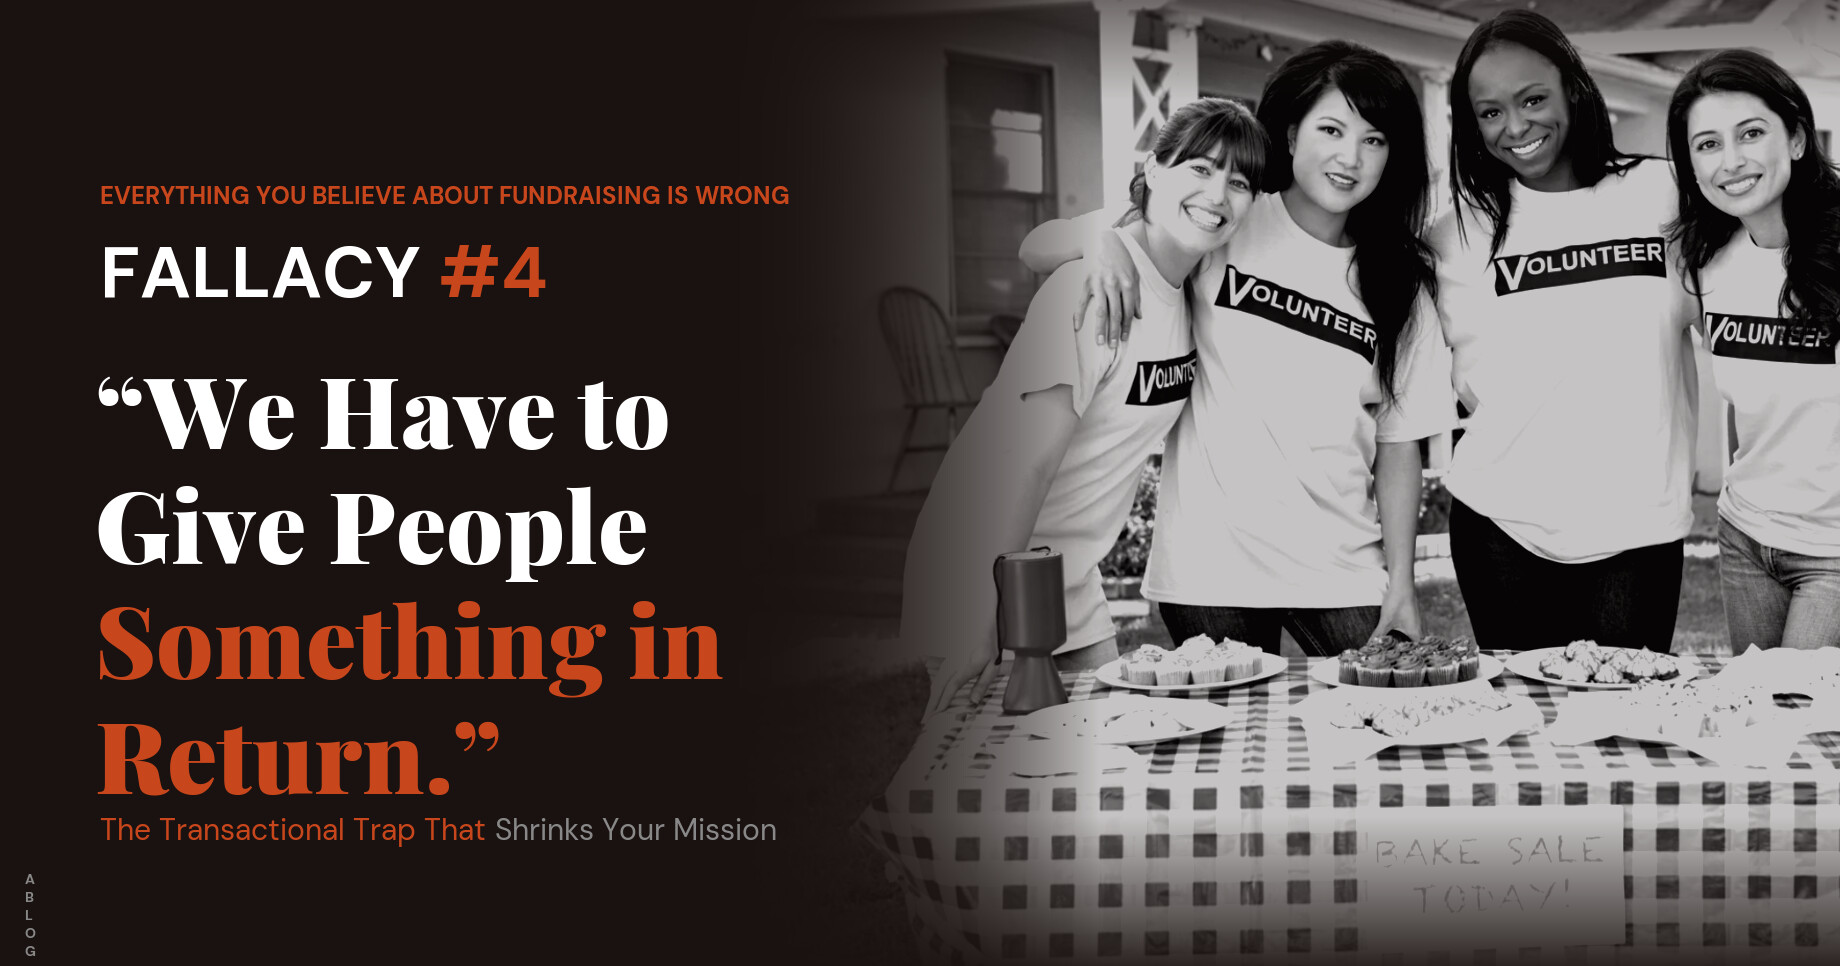
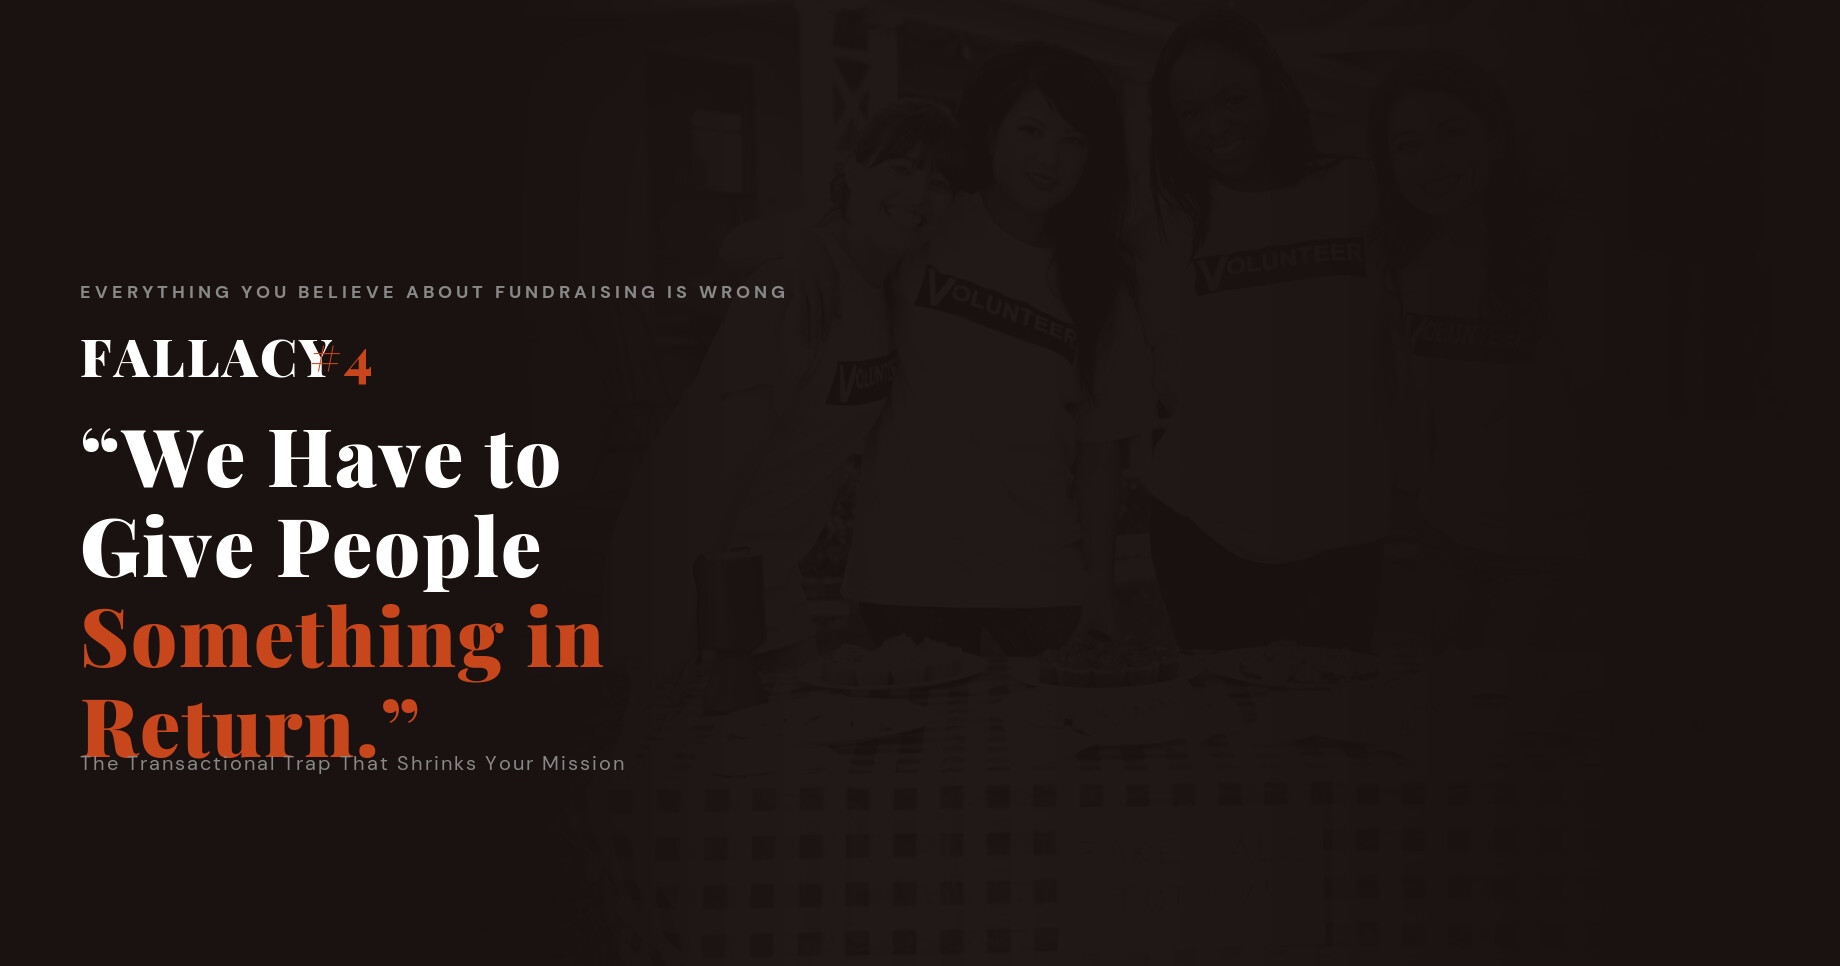
Update Fallacy #4 opening paragraphs, darken header image, update belief #10 text in intro post

diff --git a/Website/blog/everything-you-believe-about-fundraising-is-wrong.html b/Website/blog/everything-you-believe-about-fundraising-is-wrong.html
@@ -439,7 +439,7 @@
 
     <p>A few years ago, I walked into a small-town charity that was convinced it had hit its ceiling.</p>
 
-    <p>The board was exhausted. The volunteers were burnt out. And no wonder. The backbone of their fundraising program was a relentless calendar of bake sales, garage sales, and car washes. Every few weeks, another Saturday sacrificed to hauling tables, making change, and smiling through the grind. Everyone was working incredibly hard. The returns were enough to keep their doors open, but staff hadn't received a raise in years.</p>
+    <p>The board was exhausted. The volunteers were burnt out. And no wonder. The backbone of their fundraising program was a relentless calendar of bake sales, garage sales, and car washes. Every few weeks, another Saturday sacrificed to hauling tables and making change. Everyone was working incredibly hard. And, to be fair, often they were having a lot of fun. But, while the returns were enough to keep their doors open, staff hadn&rsquo;t received a raise in years, and no one thought a raise would be possible any time soon.</p>
 
     <p>The prevailing assumption was simple: <strong>we're a small charity in a small town. This is just what fundraising looks like. We've maxed out what's possible here.</strong></p>
 
@@ -459,7 +459,7 @@
 
     <p>So why do so many good organizations, doing genuinely important work, struggle to raise money? Why do passionate, intelligent board members and executive directors preside over anemic fundraising programs year after year?</p>
 
-    <p>Often, it's because they hold a set of deeply ingrained beliefs about fundraising that <em>feel</em> true, feel obvious, feel like common sense, are yet are so completely wrong, that they're very nearly the opposite of the truth. And these beliefs don't just limit results. They actively prevent organizations from doing the simple, often low-effort things that actually raise money.</p>
+    <p>Often, it&rsquo;s because they hold a set of deeply ingrained beliefs about fundraising that <em>feel</em> true, feel obvious, feel like common sense, are yet are very nearly the opposite of the truth. And these beliefs don&rsquo;t just limit results. They actively prevent organizations from doing the simple, often low-effort things that actually raise money.</p>
 
     <p>These beliefs are so common, so deeply held, and so rarely examined that most nonprofit leaders don't even recognize them as beliefs. They feel like facts. Like the way things are. Like the natural limits of what's possible.</p>
 
@@ -481,7 +481,7 @@
         <li><strong>"That's the development office's job."</strong> The belief that fundraising belongs to one department or one hire, rather than being woven into the fabric of everything the organization does.</li>
         <li><strong>"The executive director has more important things to do."</strong> The belief that organizational leadership is above fundraising, rather than understanding that fundraising is leadership.</li>
         <li><strong>"The board's job is governance, not fundraising."</strong> The belief that board members shouldn't be expected to raise money, when in fact it is one of their most important responsibilities.</li>
-        <li><strong>"We shouldn't spend money on fundraising."</strong> The belief that keeping costs low is more virtuous than raising more money, and that overhead is the enemy of impact.</li>
+        <li><strong>&ldquo;We shouldn&rsquo;t spend money on fundraising.&rdquo;</strong> The &ldquo;low overhead&rdquo; trap. Organizations will agonize over budget spending on things like postage and printing, thinking only terms of absolute costs instead of ROI. Making the ROI switch removes the ceiling.</li>
     </ol>
 
     <h2>Why beliefs matter more than tactics</h2>

diff --git a/Website/blog/give-something-return.html b/Website/blog/give-something-return.html
@@ -463,13 +463,11 @@
 
     <p>And you? You deposit five or six dollars in net revenue. Maybe less, once you subtract the cost of the ingredients, the plates, the napkins, and the opportunity cost of the hours your volunteers spent baking and setting up.</p>
 
-    <p>A lot of small non-profits survive on events like this. And to the extent that they build community, inform people about their mission, and bring in some money, that&rsquo;s not the worst thing in the world.</p>
+    <p>A lot of small non-profits survive on events like this. To the extent that such events build community, inform people about your mission, and bring in some money, they can have their place.</p>
 
-    <p>However, here&rsquo;s the unseen reality that every bakesale-and-carwash-driven non-profit needs to stop and consider:</p>
+    <p>However, here&rsquo;s an important truth:</p>
 
-    <p>If someone on your team had called that same woman, told her the story of what your organization is doing and why it matters, and asked her for a hundred-dollar donation, there is a very good chance she would have said yes. Happily.</p>
-
-    <p>Some donors, after a conversation or two, would gladly give a thousand. And they would receive a tax receipt on top of it.</p>
+    <p>If someone on your team had simply called the woman who gave you the ten dollars, told her the story of what your organization is doing and why it matters, and asked her for a hundred-dollar donation, there is a very good chance she would have said yes. Happily. Some donors, after a conversation or two, would gladly give a thousand. And they would receive a tax receipt on top of it.</p>
 
     <p>But nobody called your cookie-buyer. Nobody asked. Instead, she got cookies. And your organization got five dollars and a long Saturday.</p>
 
